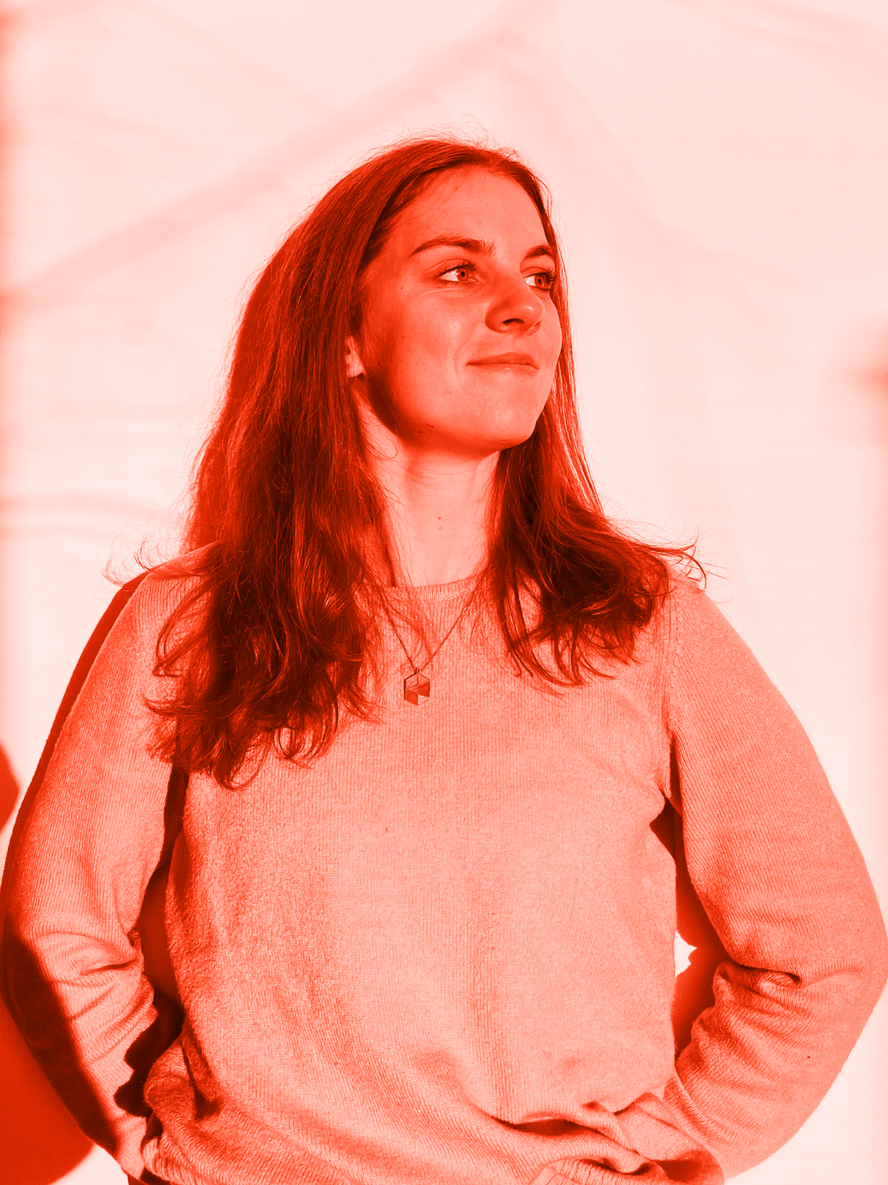
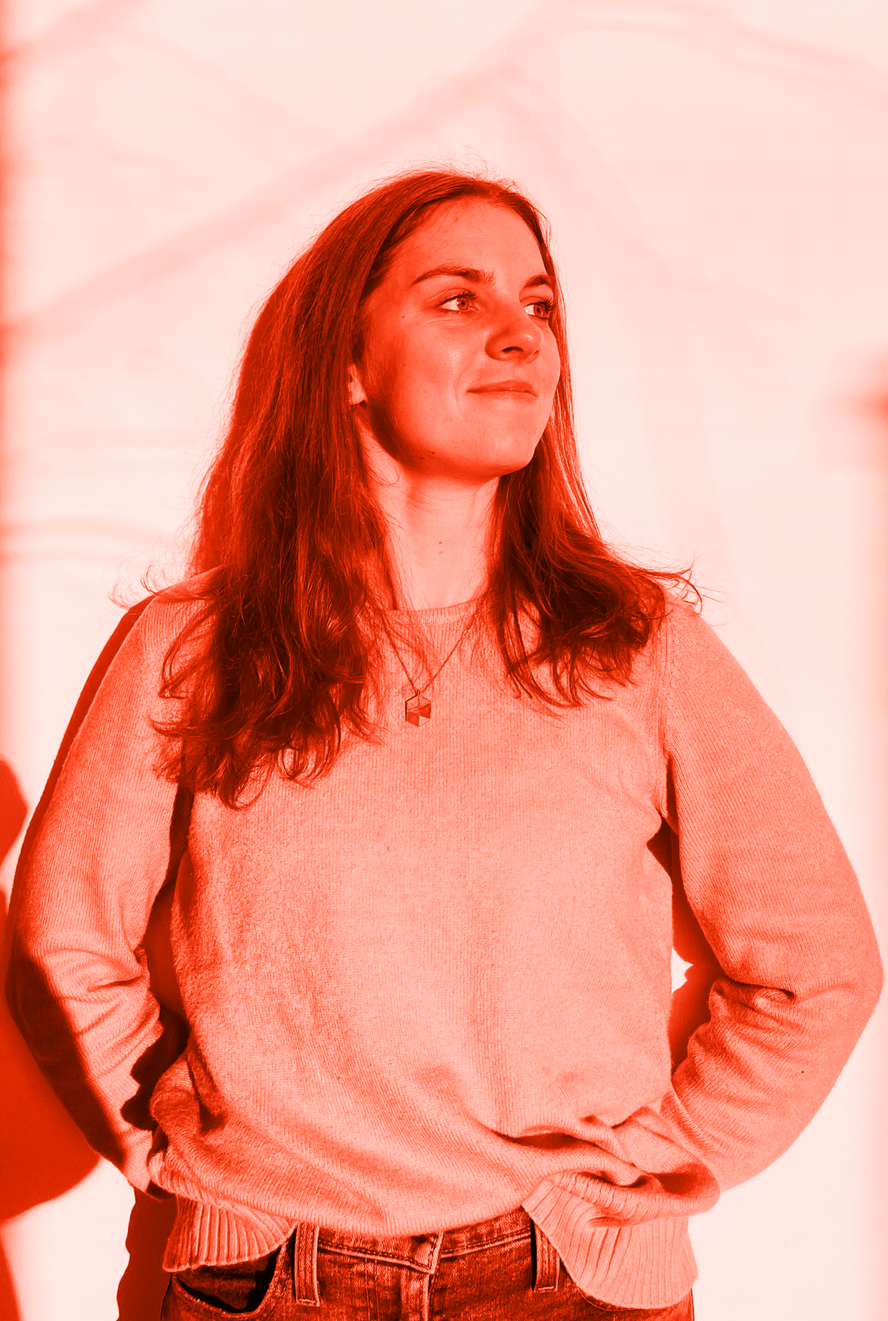
Added new photos

diff --git a/components/AboutSection.tsx b/components/AboutSection.tsx
@@ -49,7 +49,7 @@ export default function AboutSection() {
     { 
       text: "\n\nwhen i started high school, i knew i wanted to attend a top us university on a track and field scholarship. i represented slovenia at the european and world youth championships, and 4 years after my goal was set, i landed in the us.", 
       hover: 'track',
-      image: '/photos/world-championships.png',
+      image: '/photos/running.png',
       isPhoto: true,
       width: 400,
       height: 400
